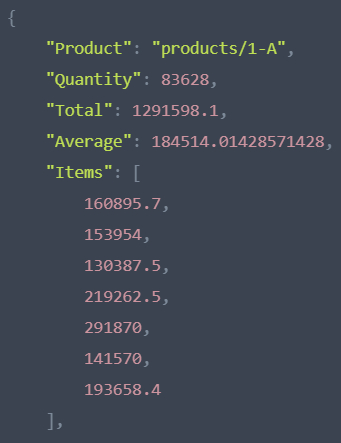
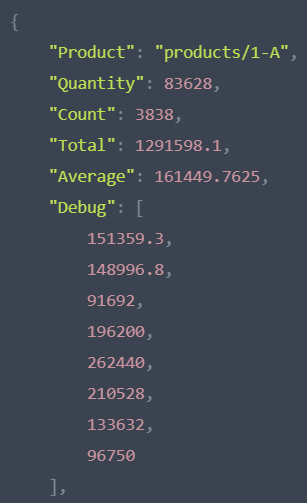
Updating chapter after editor review company -> Company Fixing some images and minor additions

diff --git a/Ch11/Ch11.md b/Ch11/Ch11.md
@@ -22,17 +22,17 @@ Listing 11.1 shows a simple aggregation query, giving us the total number of ord
 
 ```{caption="A simple aggregation query in RavenDB" .sql}
 from Orders as o
-group by o.company
-where o.company  = 'companies/1-A'
+group by o.Company
+where o.Company  = 'companies/1-A'
 select count() as NumberOfOrders, 
 	   sum(o.Lines[].Quantity) as ItemsPurchased, 
-	   o.company
+	   o.Company
 ```
 
 The query in Listing 11.1 should be familiar to anyone who's used SQL before. Now, let's analyze what RavenDB must do in
 order to answer this kind of query:
 
-1. Find all the `Orders` documents where the `company` field is set to `'companies/1-A'`.
+1. Find all the `Orders` documents where the `Company` field is set to `'companies/1-A'`.
 2. Iterate over all of those, count their number and sum the number of line items in each.
 3. Return the results to the client.
 
@@ -41,7 +41,7 @@ has just over a thousand documents in the database. There isn't much we can do t
 However, with real-world datasets, we'll typically deal with collections that contain hundreds of thousands to many millions 
 of documents. 
 
-Consider the first step, which is finding all the `Orders` documents with the `company` field set to a value. If I have a few million 
+Consider the first step, which is finding all the `Orders` documents with the `Company` field set to a value. If I have a few million 
 documents to scan, that alone can be quite expensive, both in I/O (to read the data from disk) and computation (to check equality
 so often). This is obviously something that we can optimize with an index. It's the next step that's hard to work with.
 
@@ -54,9 +54,10 @@ worse is that the more important the company, the more orders and items this par
 things will become. This method won't work. It's punishing success, and that isn't something we want.
 
 Typically, you won't run such queries directly because of their cost and time to run.
-Instead, you'll write a job that will run these queries at idle times and cache the results. Then you only have to deal with cache invalidation, making sure that this job is never run under load, explaining to users that the results are delayed and...
+Instead, you'll write a job that will run these queries at idle times and cache the results. Then you only have to deal with cache invalidation, making sure that this job is never run under load, explaining to users that the results are delayed
+and so and and so forth. Suddenly, this is a big task. It's complex and will take time to complete.
 
-It's complex. All you wanted was to put a couple numbers on a page, and suddenly you need to deploy a background job, monitor
+But alll you really wanted was to put a couple numbers on a page, and suddenly you need to deploy a background job, monitor
 its cost and execution and wait until the daily or weekly run to get updated numbers. Such a high cost of aggregation will usually
 cause such features to be dropped.
 
@@ -82,36 +83,36 @@ You can already see that an aggregation query in RavenDB is also using an index.
 index terms and performance statistics, there's also the MapReduce visualizer, which we'll look at in more detail later. For now,
 click on the `View Index` option, which should open the index details page shown in Figure 11.2.
 
-![A Map-Reduce index aggregation `Orders` by `company`](./Ch11/img02.png)
+![A Map-Reduce index aggregation `Orders` by `Company`](./Ch11/img02.png)
 
-Figure 11.2 shows the structure of the index. Operating over `Orders`, it groups by the `company` and aggregates over them. One thing to note here is that there's no mention anywhere of `companies/1-A`. Even though the query in
+Figure 11.2 shows the structure of the index. Operating over `Orders`, it groups by the `Company` and aggregates over them. One thing to note here is that there's no mention anywhere of `companies/1-A`. Even though the query in
 Listing 11.1 mentioned it, the index isn't operating on that particular value but rather on the generic concept of aggregating by
-the `company` field.
+the `Company` field.
 
-In other words, as usual, RavenDB looked at the query and generalized the operation to answer any question using `company`. But what about the aggregation?
+In other words, as usual, RavenDB looked at the query and generalized the operation to answer any question using `Company`. But what about the aggregation?
 
 Aggregation is actually handled via two separate actions, `map` and `reduce`. The first stage runs a `map` operation on
-each of the documents, grabbing just `company`, `sum(Lines[].Quantity)` and `Count = 1` from each of the `Orders` documents. The 
-second stage is to group them all by `company` and run the `reduce` operation to get the final result by each of the 
-`company` field values.
+each of the documents, grabbing just `Company`, `sum(Lines[].Quantity)` and `Count = 1` from each of the `Orders` documents. The 
+second stage is to group them all by `Company` and run the `reduce` operation to get the final result by each of the 
+`Company` field values.
 
 If this doesn't make sense to you, don't worry. RavenDB contains a few tools specifically to help you understand how the 
 `MapReduce` process works.  
 
-In the `Indexes` tab, go to `Map-Reduce Visualizer` and then select the `Auto/Orders/ByCountAndLines[].QuantityReducedBycompany`
+In the `Indexes` tab, go to `Map-Reduce Visualizer` and then select the `Auto/Orders/ByCountAndLines[].QuantityReducedByCompany`
 index from the dropdown. Then search for the following document IDs: `orders/396-A` and `orders/445-A`. The result should look
 similar to Figure 11.3.
 
 ![The MapReduce visualizer allows us to inspect the internal structure of the index](./Ch11/img03.png)
 
-Clicking on the `{"company":"companies/1-A"}` rectangle in Figure 11.3 will give us more details about that particular value, as
+Clicking on the `{"Company":"companies/1-A"}` rectangle in Figure 11.3 will give us more details about that particular value, as
 you can see in Figure 11.4.
 
 ![A single reduce result and the total reduced value for a MapReduce index](./Ch11/img04.png)
 
 With the details in Figures 11.3 and 11.4, you can now see exactly what I mean when I talk about `map` output and the resulting
 aggregation. The documents we selected (`orders/396-A` and `orders/445-A`) both belong to `companies/1-A`, and we can see that 
-for `orders/396-A`, the `map` output was `{"company": "companies/1-A","Count": 1,"Lines[].Quantity": 38}`. Indeed, if we go 
+for `orders/396-A`, the `map` output was `{"Company": "companies/1-A","Count": 1,"Lines[].Quantity": 38}`. Indeed, if we go 
 and inspect the document, we'll see three line items, with quantities of 15, 21 and 2, totaling  38. For `orders/445-A`, we can
 see that the total quantity is 20, with a single line item. 
 
@@ -138,7 +139,7 @@ going to handle updates?
 
 The MapReduce indexes in RavenDB aren't simply a cache of the already computed results. Instead, we store the data in such a 
 way that makes it cheap to also update the results. Consider what will happen inside RavenDB when a new order comes in. We'll run
-the `map` portion of the index, getting the `company`, `sum(Lines[].Quantity)` and `Count = 1` from the newly created document.
+the `map` portion of the index, getting the `Company`, `sum(Lines[].Quantity)` and `Count = 1` from the newly created document.
 
 The easiest way to visualize that is to add another row to Figure 11.5. At this point, RavenDB can then just aggregate the
 new results alongside the already existing result and get to the final tally. In other words, the complexity here exists in order
@@ -161,7 +162,7 @@ After running this script, we should have about 83,000 Orders documents in the d
 `companies/1-A`, we now have 600. Let's look at how that works. 
 
 Go back to the MapReduce visualizer and select the
-`Auto/Orders/ByCountAndLines[].QuantityReducedBycompany` index. Then add the `orders/396-A` and `orders/445-A` documents.
+`Auto/Orders/ByCountAndLines[].QuantityReducedByCompany` index. Then add the `orders/396-A` and `orders/445-A` documents.
 The result is shown in Figure 11.6
 
 ![Showing 600 mapped entries for `companies/1-A`](./Ch11/img06.png)
@@ -271,9 +272,8 @@ see the internal structure of the MapReduce index, as shown in Figure 11.8.
 
 ![Internal structure of the `Products/Sales` index in the MapReduce visualizer](./Ch11/img08.png)
 
-As you can see in Figure 11.8, all of the entries are big enough to require a tree structure. If you look at
-`products/39-A`, you can see that this is holding just over 80,000 entries, with Figure 11.9 zooming in on a single page inside
-that tree.
+As you can see in Figure 11.8, all of the entries are big enough to require a tree structure. Let's take a closer look
+at `products/39-A`,with Figure 11.9 zooming in on a single page inside that tree.
 
 ![A single page holding over 25,000 map entries, due to high compression rate](./Ch11/img09.png)
 
@@ -369,8 +369,8 @@ All we need to do for the proper computation is make sure we aren't assuming the
 still need to have a field called `Average` in the `map` function because the shape must match. But since we're never reading
 this field, we don't have to give it any special value and can just initialize it to any value we want.
 
-Similarly to `Average`, we can't use `Count` in the `reduce` either, for the exact same reason. That's why we use `Count = 1` 
-in the `map`: to allow us to start the recursive computation of the total amount of items.
+Similarly to `Average`, we can't use `Count()` in the `reduce` either, for the exact same reason. That's why we use `Count = 1` 
+in the `map` and sum it in the `reduce`: to allow us to start the recursive computation of the total amount of items.
 
 #### Complex MapReduce indexes
 
@@ -389,17 +389,17 @@ from o in docs.Orders
 from l in o.Lines
 select new
 {
-    o.company,
+    o.Company,
     Products = new []{ new { l.Product, l.Quantity } },
     Total = l.Quantity
 }
 
 //reduce
 from r in results
-group r by r.company into g
+group r by r.Company into g
 select new
 {
-    company = g.Key,
+    Company = g.Key,
     Products = g.SelectMany(x=>x.Products)
         .GroupBy(x=>x.Product)
         .Select(p => new
@@ -416,10 +416,10 @@ work going on in the `reduce`. Let's break it apart into its components and exam
 
 First, the `map` generates an entry per line item, and the entry contains a single element `Products` array with the product's 
 ID and the amount sold. The reason we create the array in the map is that we need to match the shape of the `reduce`. In the
-`reduce` function, we group the results by the `company` and then generate the results for that particular company. The most
+`reduce` function, we group the results by the `Company` and then generate the results for that particular company. The most
 interesting tidbit happens when building the `Products` field. 
 
-There, we apply _another_ `GroupBy` call to aggregate the data inside the `company` once again. We use this to get the total
+There, we apply _another_ `GroupBy` call to aggregate the data inside the `Company` once again. We use this to get the total
 numbers of items purchased for each product, and this mechanism allows us to aggregate the data across multiple invocations to
 `reduce` safely and in a natural manner. 
 
@@ -438,7 +438,7 @@ numbers of items purchased for each product, and this mechanism allows us to agg
 > increased in memory utilization and disk space usage, and it will overall be quite expensive. 
 
 Now, let's see what this index actually generates. Execute the following query: 
-`from index 'Companies/Purchases' where company ='companies/13-A'` and observe its results. You can also see this in 
+`from index 'Companies/Purchases' where Company ='companies/13-A'` and observe its results. You can also see this in 
 Figure 11.12.
 
 ![Complex output form the index, showing aggregation inside the reduced result](./Ch11/img12.png)
@@ -464,7 +464,7 @@ declare function addProductName(result){
     return result;
 }
 from index 'Companies/Purchases' as result
-where result.company ='companies/13-A'
+where result.Company ='companies/13-A'
 select addProductName(result)
 ```
 
@@ -472,7 +472,7 @@ The result of the query in Listing 11.8 is shown in Listing 11.9.
 
 ```{caption="Output of the query in Listing 11.8, showing enriched result set of map-reduce index" .js}
 {
-    "company": "companies/13-A",
+    "Company": "companies/13-A",
     "Products": [
         {
             "Product": "products/21-A",
@@ -661,7 +661,7 @@ changes, being able to isolate the work to a particular database group (and thus
 In the previous chapter, Figure 10.12 demonstrated the usage of multimap indexes to index several collections and 
 unite the results into a single index. This can be great for when you want to search over several things at the same
 time. The example we looked at in Chapter 10 searched for a person by name, where the person can be an `Employee`, a 
-`Contact` on a `company` or a `Contact` for a `Supplier`. Regardless, we were able to search for that person easily
+`Contact` on a `Company` or a `Contact` for a `Supplier`. Regardless, we were able to search for that person easily
 and in a convenient manner.
 
 MultimapReduce indexes allow us to extend that behavior to also include aggregation across multiple sources
@@ -1014,7 +1014,7 @@ can utilize artificial documents and two MapReduce indexes to reduce the amount 
 re-index.
 
 The MapReduce engine inside RavenDB is very flexible, and it's been used to great effect over the years&mdash;including in many 
-scenarios that surprised development teams. Aggregation of results is only the most obvious of the options
+scenarios that surprised RavenDB's own development team. Aggregation of results is only the most obvious of the options
 that are available to you.
 
 In the next chapter, we'll switch gears a bit and move to a more practical mindset, talking about how to utilize and work with

diff --git a/Ch15/Ch15.md b/Ch15/Ch15.md
@@ -11,6 +11,8 @@
 
 ### Backups, restores and disaster recovery
 
+### Admin JS console
+
 ### Performance tracking
 
 ## Closing thoughts
